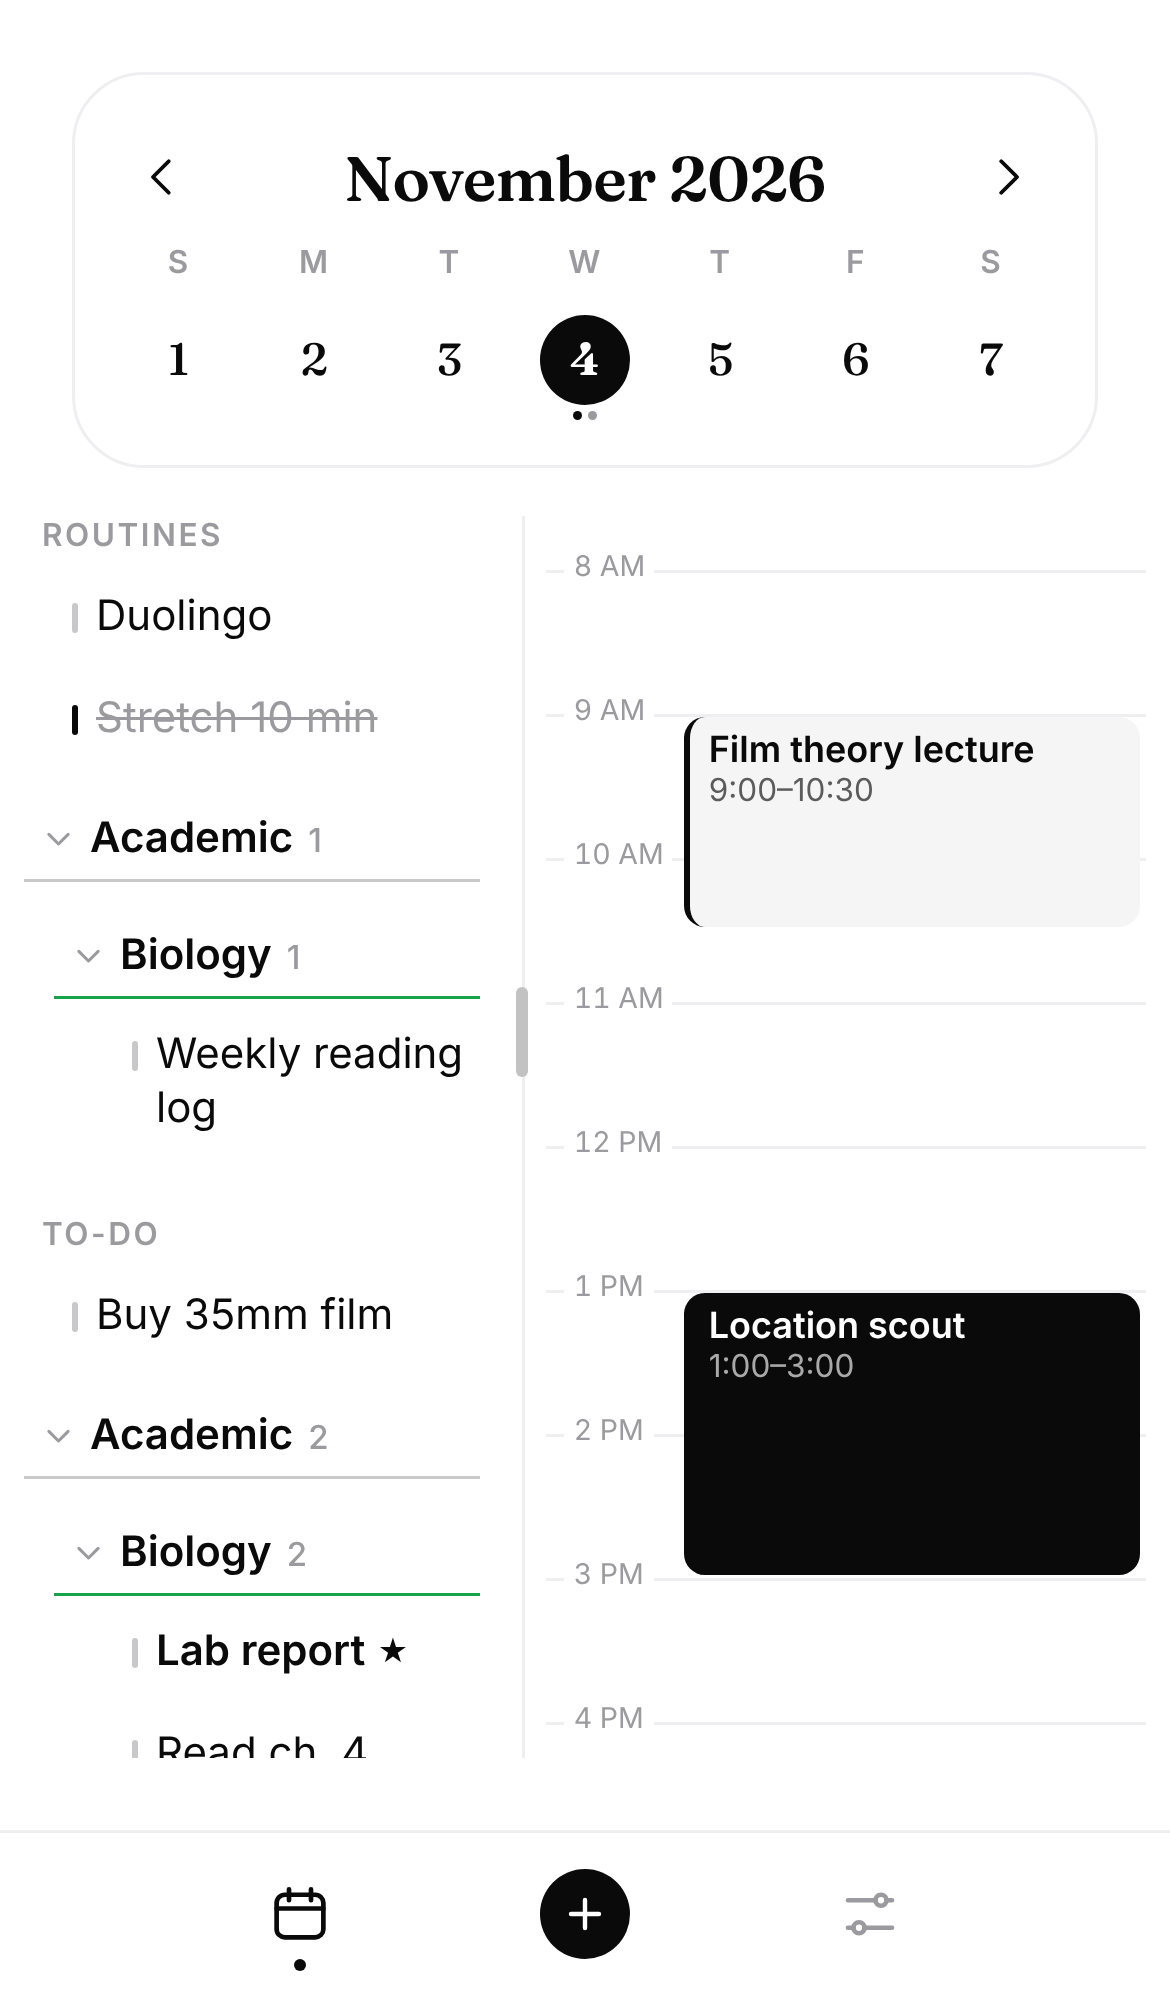
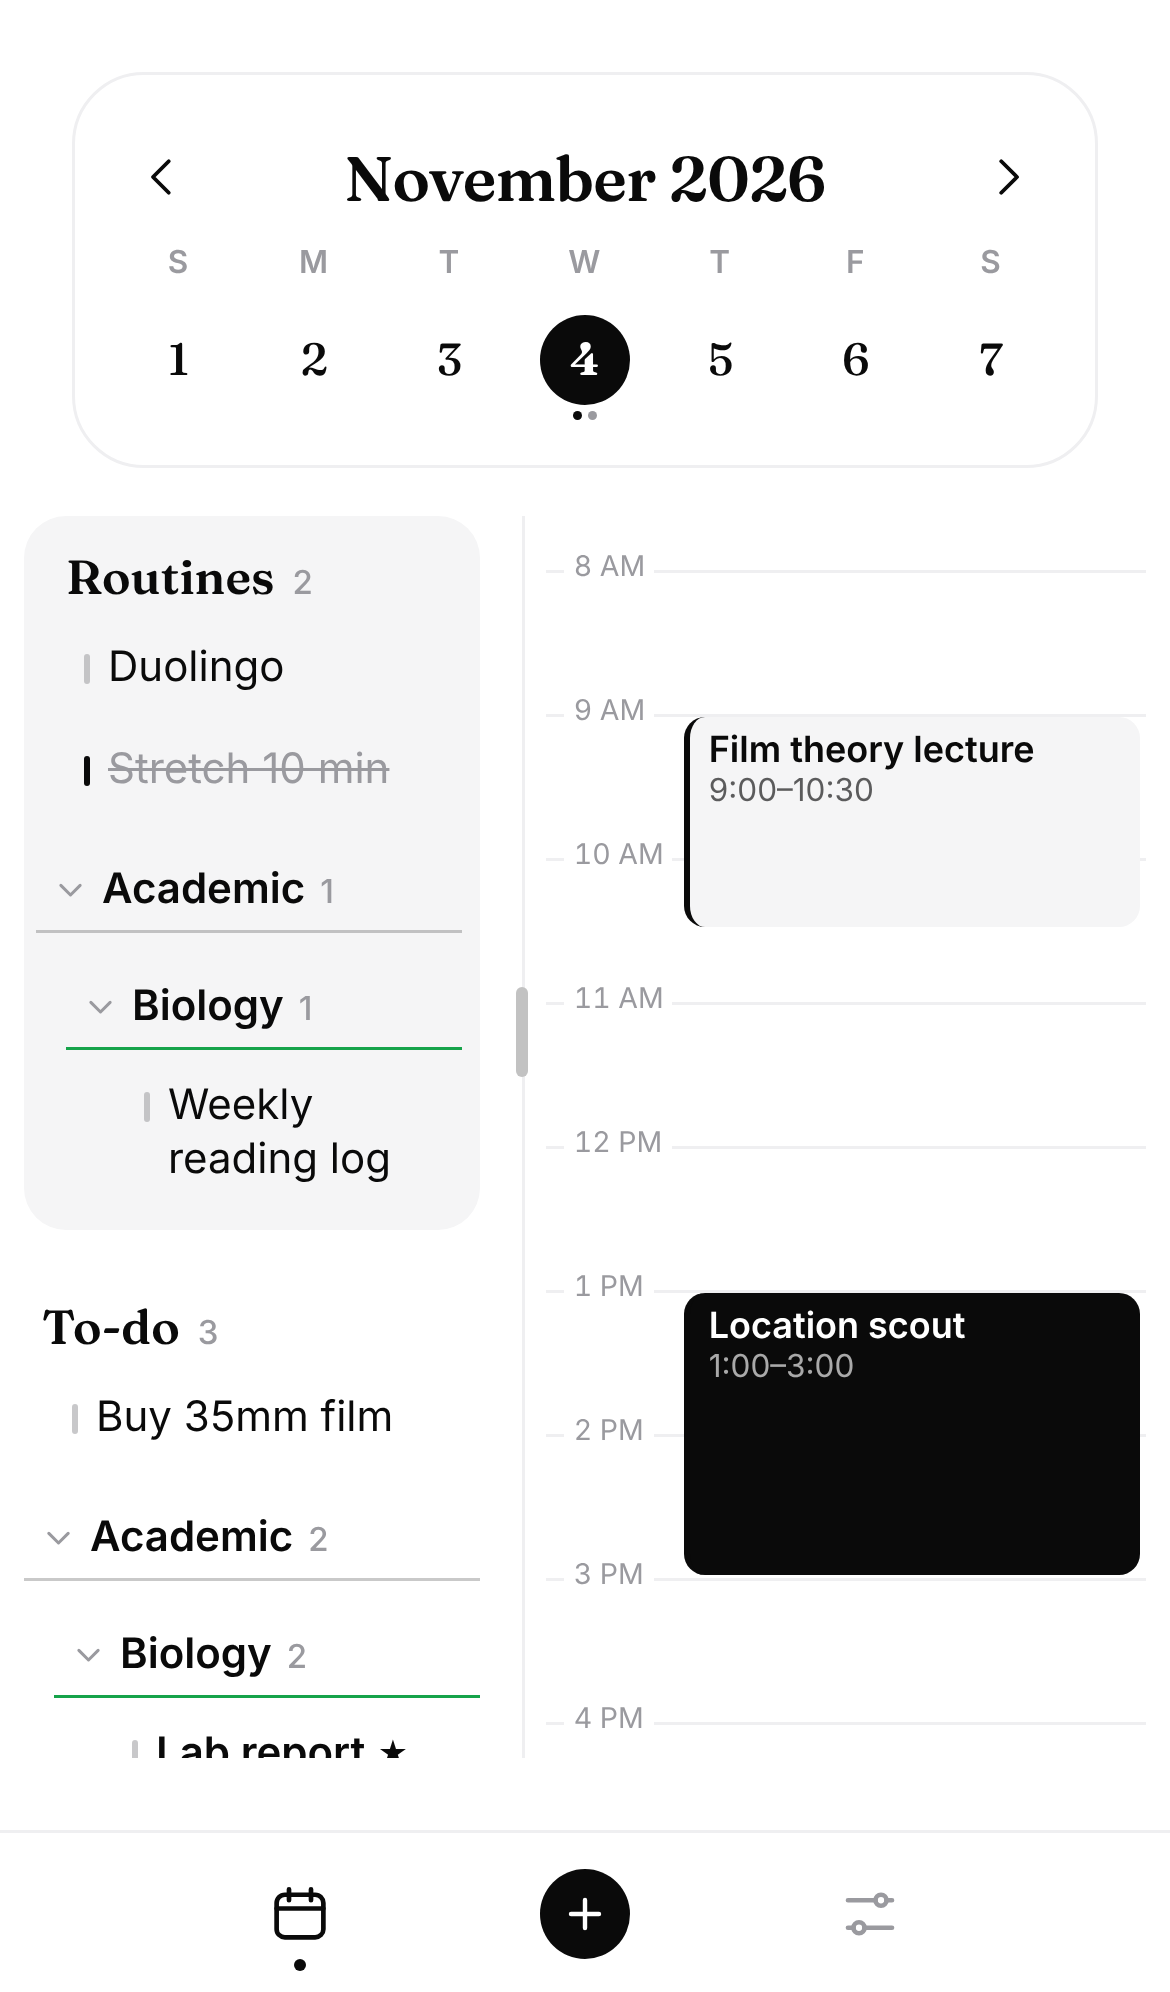
Make Routines and To-do sections visually distinct
Routines now sit in a shaded rounded box with a heading and open-item
count; regular to-dos follow on the plain page under their own heading.
Bump service worker cache to planner-v9.

Claude-Session: https://claude.ai/code/session_01ASSW9g954rm1kx6hrjz3o3

diff --git a/js/day.js b/js/day.js
@@ -52,14 +52,19 @@ function todoColumn(key, actions) {
   const routines = todos.filter(isRoutine);
   const regular = todos.filter((t) => !isRoutine(t));
 
+  const left = (list) => list.filter((t) => !isDone(t, key)).length;
+  const label = (text, list) => h('h3', { class: 'section-label' },
+    text, left(list) ? h('span', { class: 'section-count' }, String(left(list))) : null);
+
+  // Routines sit in a shaded box so the two sections read as clearly separate.
   const sections = [];
   if (routines.length) {
-    sections.push(h('section', { class: 'todo-section' },
-      h('h3', { class: 'section-label' }, 'Routines'), folderTree(routines, key, actions)));
+    sections.push(h('section', { class: 'todo-section routines' },
+      label('Routines', routines), folderTree(routines, key, actions)));
   }
   if (regular.length) {
     sections.push(h('section', { class: 'todo-section' },
-      routines.length ? h('h3', { class: 'section-label' }, 'To-do') : null, folderTree(regular, key, actions)));
+      routines.length ? label('To-do', regular) : null, folderTree(regular, key, actions)));
   }
 
   return h('div', { class: 'col' }, h('div', { class: 'col-scroll', 'data-scroll': 'todos' }, sections));

diff --git a/styles.css b/styles.css
@@ -164,12 +164,16 @@ svg { width: 20px; height: 20px; fill: none; stroke: currentColor; stroke-width:
 .mark { color: var(--muted); font-size: 10px; margin-left: 4px; vertical-align: 1px; font-weight: 400; }
 .mark.star { color: var(--accent); }
 
-/* Routines / To-do sections */
-.todo-section + .todo-section { margin-top: 18px; }
+/* Routines / To-do sections: routines live in a shaded box, to-dos below on the plain page. */
+.todo-section.routines { background: var(--soft); border-radius: 14px; margin: 0 6px 0 8px; padding: 10px 0 6px; }
+.todo-section.routines .todos.root { padding-left: 4px; }
+.todo-section + .todo-section { margin-top: 22px; }
 .section-label {
+  display: flex; align-items: baseline; gap: 6px;
   margin: 0; padding: 0 14px 4px;
-  font-size: 10.5px; font-weight: 600; letter-spacing: .08em; text-transform: uppercase; color: var(--muted);
+  font-family: var(--display); font-size: 16px; font-weight: 600; color: var(--fg);
 }
+.section-count { font-family: -apple-system, BlinkMacSystemFont, sans-serif; font-size: 11px; font-weight: 500; color: var(--muted); }
 
 /* Category folders: same font as the to-dos, with a thin underline separating the name. */
 .folder { margin-top: 6px; }

diff --git a/sw.js b/sw.js
@@ -1,5 +1,5 @@
 // Bump CACHE whenever any file in ASSETS changes, so installed copies update.
-const CACHE = 'planner-v8';
+const CACHE = 'planner-v9';
 const ASSETS = [
   './',
   'index.html',

diff --git a/CLAUDE.md b/CLAUDE.md
@@ -63,7 +63,10 @@ laptop. So:
   off per day (`doneOn`). Routines only get a calendar dot when starred.
   In the to-do column, **routines have their own section on top ("Routines") and
   regular to-dos sit below ("To-do")**; each section has its own folder tree
-  (folder open/closed state is shared). Labels only show when routines exist.
+  (folder open/closed state is shared). The two must look clearly distinct:
+  Routines sit in a shaded rounded box (`.todo-section.routines`), To-do below on
+  the plain page; both have display-font headings with an open-item count.
+  Headings only show when routines exist.
 - **Important reminders** (e.g. a parent's birthday): items marked Important ★ get
   an accent-colored dot on the calendar and are counted in the home-screen icon badge.
 - **Alerts** at schedule times via notifications.
@@ -162,7 +165,7 @@ GitHub Pages serving the repo root (all paths are relative, so it works under
 `/APP-Design/`): repo Settings → Pages → Deploy from a branch → branch, `/ (root)`.
 
 **When you change any file the app loads, bump `CACHE` in `sw.js`**
-(currently `planner-v8`; bump to `planner-v9`, …) and keep its `ASSETS` list in sync
+(currently `planner-v9`; bump to `planner-v10`, …) and keep its `ASSETS` list in sync
 with every file in `js/` and `fonts/`, otherwise installed phones keep stale files.
 
 ## Git conventions
